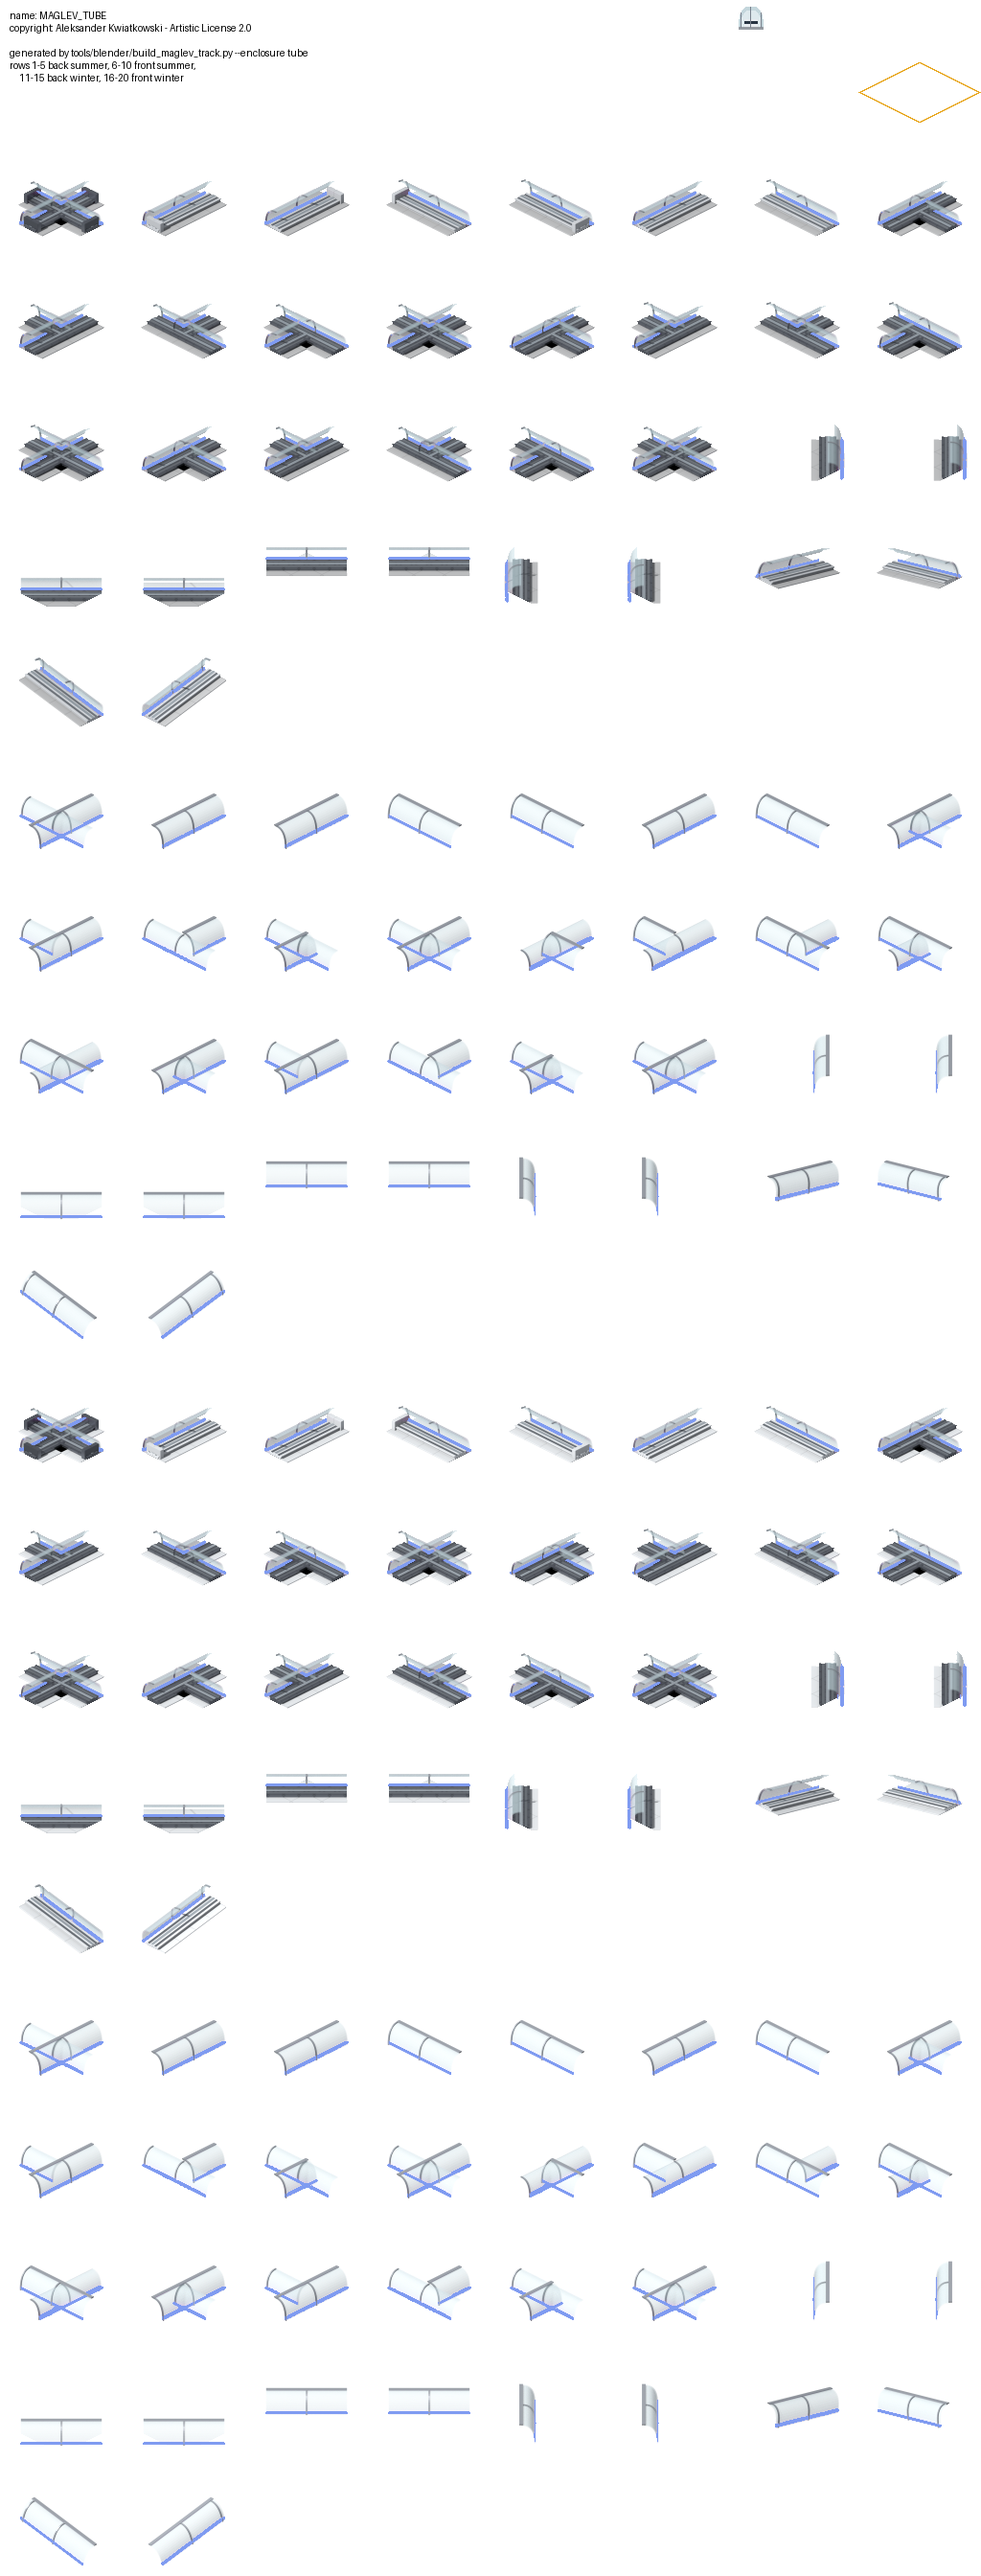
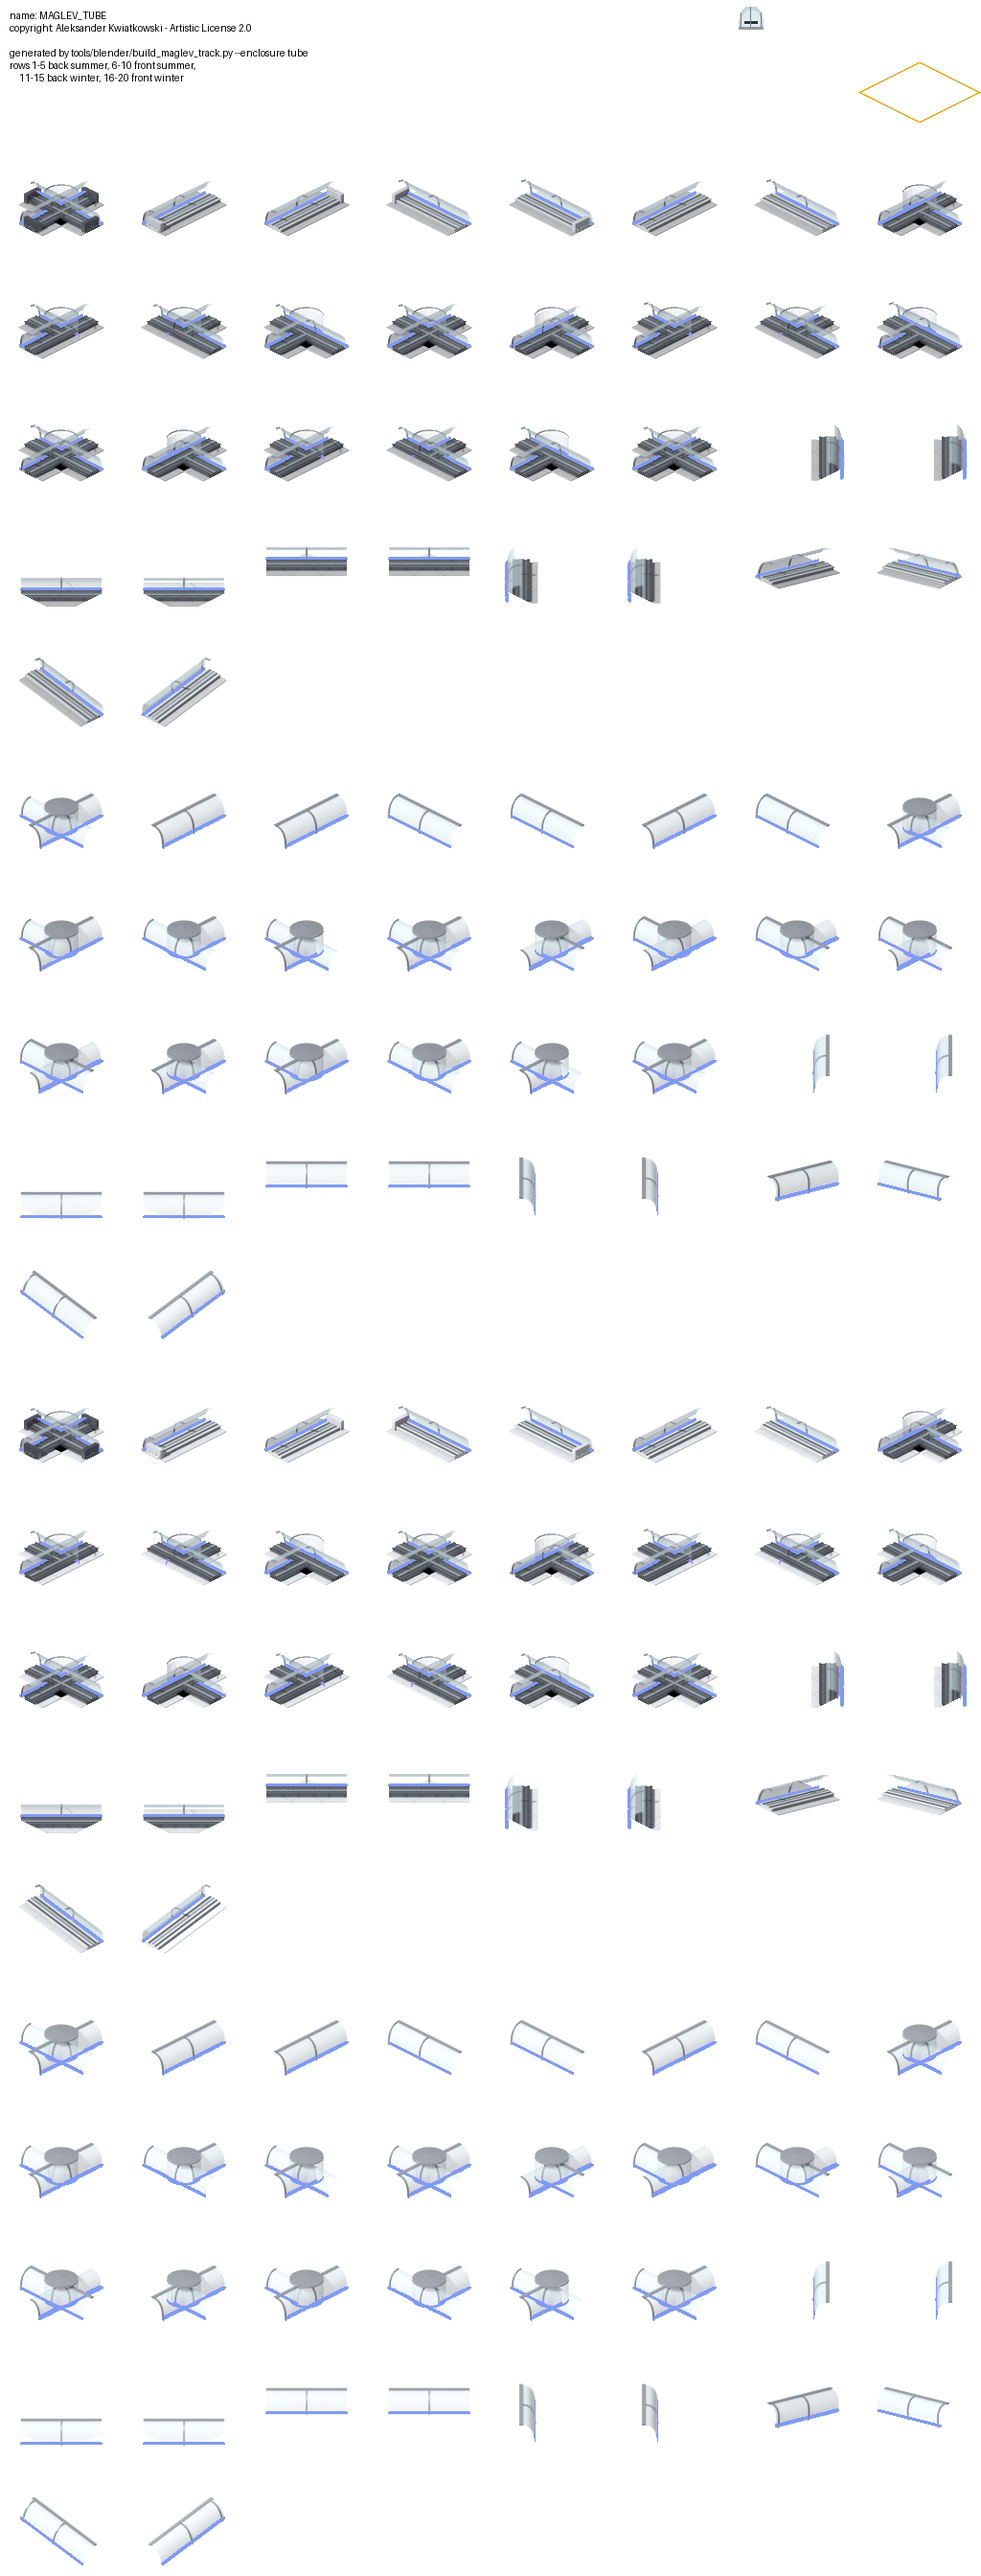
feat(tube): junction rotunda drums — a node, not a clip
Every tube junction now grows a vertical glass rotunda over the bore
intersection: frame ring at the crown, shallow cap dome, and its own
cove ring at eye height, so a junction glows as a landmark at night.
The drum splits down the near/far line like the tubes themselves, so a
pod inside the node stays visible through its glass. The builder file
also carries the new 160 elevated tier config committed next.

Claude-Session: https://claude.ai/code/session_014sy5d7ejbbKJroL52TKsu5

diff --git a/tools/blender/build_maglev_track.py b/tools/blender/build_maglev_track.py
@@ -133,6 +133,16 @@ PALETTE = {
 # --------------------------------------------------------------------------
 
 TRACK_TIERS = {
+    # The urban elevated: not a speed tier but a place tier — the monorail
+    # role, threading over streets on single columns with the ground left
+    # entirely free. Clean municipal concrete with a teal service stripe;
+    # its character is the pylon rhythm, not the beam.
+    160: dict(girder=(0.560, 0.590, 0.600),
+              girder_seams=0.08, seam_period=8.0, seam_width=0.06,
+              slot=None,
+              stators=False, snow_slots=False, posts=False, cabinets=0.0,
+              conduit=False, fairing=False, fence=False, heated_deck=False,
+              lit_edges=False, elevated=True),
     300: dict(girder=(0.500, 0.430, 0.300),   # warm site-cast sand
               girder_seams=0.42, seam_period=8.0, seam_width=0.22,
               slot=(0.330, 0.285, 0.205),     # concrete slot floor between packs
@@ -655,8 +665,13 @@ def build_cell(spec, season, enclosure="none", part="back", tier=1000):
 
     runs = [r for r in runs_for(spec)]
 
+    # The elevated tier rides one height level up on its own columns, the
+    # ground left free — that is the whole point of the urban system.
+    elevated = cfg.get("elevated", False)
+    deck_lift = up * (iso.HEIGHT_STEP if elevated else 0.0)
+
     for i, spec_run in enumerate(runs):
-        lift = up * iso.m(spec_run["lift"])
+        lift = up * iso.m(spec_run["lift"]) + deck_lift
         start = iso.ground_point(shape, *spec_run["start"]) + lift
         end = iso.ground_point(shape, *spec_run["end"]) + lift
         axis = end - start
@@ -667,7 +682,45 @@ def build_cell(spec, season, enclosure="none", part="back", tier=1000):
         right = axis.cross(up).normalized()
         over = iso.m(spec_run["overrun"])
 
-        if enclosure != "tube":
+        if elevated:
+            # Single tapered columns on a world-anchored pitch, each on a
+            # small pad; the beam's teal service stripe rides each flank.
+            col_mat = iso.make_material("column",
+                                        tuple(c * 0.88 for c in pal["apron"]),
+                                        roughness=0.88, noise=0.20)
+            stripe_mat = iso.make_material("stripe", (0.055, 0.290, 0.300),
+                                           roughness=0.45, metallic=0.20)
+            for s in (-1.0, 1.0):
+                x_in = s * (GIRDER_HALF - 0.02)
+                x_out = s * (GIRDER_HALF + 0.08)
+                stripe = [(iso.m(x_in), iso.m(0.30)),
+                          (iso.m(x_out), iso.m(0.30)),
+                          (iso.m(x_out), iso.m(0.55)),
+                          (iso.m(x_in), iso.m(0.55))]
+                iso.extrude_profile(f"stripe{i}_{s:+.0f}", stripe,
+                                    start - axis * over, end + axis * over,
+                                    right, up, stripe_mat,
+                                    bevel=0.0, caps=False)
+            ground = -deck_lift
+            for k, t in enumerate(anchored(start, axis, length, 8.0)):
+                if not (0.0 <= t <= length):
+                    continue
+                foot = start + axis * t + ground
+                col = [(iso.m(-0.62), 0.0), (iso.m(0.62), 0.0),
+                       (iso.m(0.44), iso.HEIGHT_STEP + iso.m(0.05)),
+                       (iso.m(-0.44), iso.HEIGHT_STEP + iso.m(0.05))]
+                iso.extrude_profile(f"column{i}_{k}", col,
+                                    foot - axis * iso.m(0.55),
+                                    foot + axis * iso.m(0.55),
+                                    right, up, col_mat, bevel=iso.m(0.04),
+                                    caps=True)
+                pad = [(iso.m(-0.85), -iso.m(0.02)), (iso.m(0.85), -iso.m(0.02)),
+                       (iso.m(0.85), iso.m(0.10)), (iso.m(-0.85), iso.m(0.10))]
+                iso.extrude_profile(f"pad{i}_{k}", pad,
+                                    foot - axis * iso.m(0.85),
+                                    foot + axis * iso.m(0.85),
+                                    right, up, col_mat, bevel=0.0, caps=True)
+        elif enclosure != "tube":
             # Foundation band under the run: slab top with a drainage
             # gutter along each edge, everything else left as terrain.
             gutter_mat = iso.make_material("gutter",
@@ -891,6 +944,73 @@ def build_tube(spec, season, near: bool, tier: int = 1000) -> None:
                                 base - axis * iso.m(RIB_WIDTH / 2),
                                 base + axis * iso.m(RIB_WIDTH / 2),
                                 side, up, frame, bevel=0.0, caps=False)
+
+    if len(runs) > 1:
+        build_tube_drum(near, up, glass, frame, cove_mat)
+
+
+# A junction of glazed tubes is a node, not a clip: a vertical rotunda drum
+# wraps the bore intersection, its glass over theirs, a frame ring at the
+# crown and a cove ring at eye height so the junction glows as a landmark.
+DRUM_RADIUS = TUBE_HALF_WIDTH + 0.55
+DRUM_TOP = TUBE_HEIGHT + 0.85
+DRUM_SEGMENTS = 20
+DRUM_RING_DEPTH = 0.30       # frame ring below the crown edge
+DRUM_CAP_RISE = 0.35         # shallow frame cap dome above the wall
+
+
+def build_tube_drum(near: bool, up, glass, frame, cove_mat) -> None:
+    """One half of the junction rotunda; the near half rides in the front
+    image so a pod inside the node stays visible through its glass."""
+    import math as _math
+    centre = Vector((0.0, 0.0, 0.0))
+
+    def rim(radius, height):
+        pts = []
+        for s in range(DRUM_SEGMENTS + 1):
+            ang = 2.0 * _math.pi * s / DRUM_SEGMENTS
+            pts.append(centre + Vector((radius * _math.cos(ang),
+                                        radius * _math.sin(ang), 0.0))
+                       + up * iso.m(height))
+        return pts
+
+    def half_faces(lo_pts, hi_pts, want_near):
+        verts, faces = [], []
+        for s in range(DRUM_SEGMENTS):
+            a, b = lo_pts[s], lo_pts[s + 1]
+            c, d = hi_pts[s + 1], hi_pts[s]
+            mid = (a + b) / 2
+            # Near = towards the camera: screen y grows with world x - y.
+            if ((mid.x - mid.y) > 0.0) != want_near:
+                continue
+            base = len(verts)
+            verts += [a, b, c, d]
+            faces.append([base, base + 1, base + 2, base + 3])
+        return verts, faces
+
+    r = iso.m(DRUM_RADIUS)
+    wall_v, wall_f = half_faces(rim(r, 0.0), rim(r, DRUM_TOP), near)
+    if wall_v:
+        obj = iso.new_mesh("drum_wall", wall_v, wall_f, glass)
+        iso.no_shadow(obj)
+    ring_v, ring_f = half_faces(rim(r + iso.m(0.06), DRUM_TOP - DRUM_RING_DEPTH),
+                                rim(r + iso.m(0.06), DRUM_TOP), near)
+    if ring_v:
+        iso.new_mesh("drum_ring", ring_v, ring_f, frame)
+    cove_v, cove_f = half_faces(rim(r + iso.m(0.05), COVE_LO),
+                                rim(r + iso.m(0.05), COVE_HI), near)
+    if cove_v:
+        lit = iso.new_mesh("drum_cove", cove_v, cove_f, cove_mat)
+        iso.no_shadow(lit)
+    if near:
+        # Shallow frame cap closing the drum, always in the front pass —
+        # it sits above anything that can be inside.
+        top = rim(r, DRUM_TOP)
+        apex = centre + up * iso.m(DRUM_TOP + DRUM_CAP_RISE)
+        verts = top + [apex]
+        faces = [[s, s + 1, DRUM_SEGMENTS + 1]
+                 for s in range(DRUM_SEGMENTS)]
+        iso.new_mesh("drum_cap", verts, faces, frame)
 
 
 def build_stop_block(name, base: Vector, direction: Vector, right: Vector,
